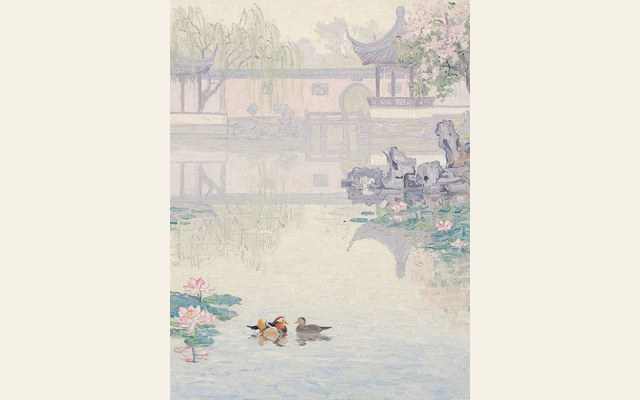
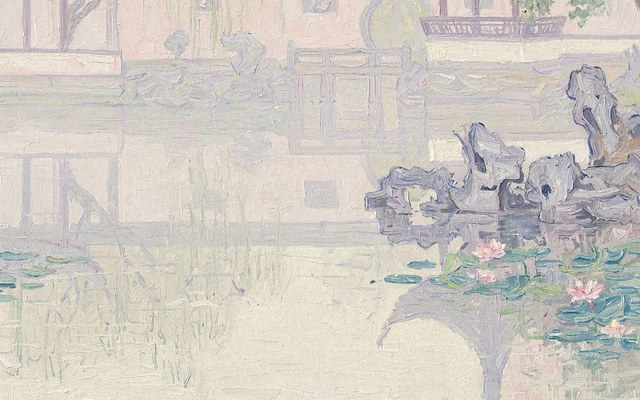
Uniform style thumbnails and full-image preview lightbox

diff --git a/plugin/client.js b/plugin/client.js
@@ -325,6 +325,12 @@ body[data-ds-dark-theme] .iw-root, html[data-ds-dark-theme] .iw-root, .iw-root[d
   border: 1px solid var(--p-hair); border-radius: 0; background: var(--p-paper-2);
   transition: border-color .15s var(--p-ease);
 }
+.iw-root .card-wrap{ position: relative; min-width: 0; }
+.iw-root .card-wrap .card{ width: 100%; }
+.iw-root .card-zoom{ position: absolute; top: 4px; left: 4px; z-index: 2; width: 20px; height: 20px; display: inline-flex; align-items: center; justify-content: center; padding: 0; border: 1px solid var(--p-hair); background: var(--p-paper-2); color: var(--p-ink-3); opacity: .55; transition: opacity .12s, color .12s, border-color .12s; }
+.iw-root .card-wrap:hover .card-zoom,.iw-root .card-wrap:focus-within .card-zoom,.iw-root .card-zoom:focus{ opacity: 1; }
+.iw-root .card-zoom:hover{ color: var(--p-signal); border-color: var(--p-signal); }
+@media (hover:none){.iw-root .card-zoom{opacity:1;}}
 .iw-root .card:hover{ border-color: var(--p-ink-3); }
 .iw-root .card.on{ border-color: var(--p-ink); box-shadow: 0 0 0 1px var(--p-ink); }
 .iw-root .card img{ display: block; width: 100%; aspect-ratio: 16 / 10; object-fit: cover; background: var(--p-sunken); }
@@ -524,6 +530,17 @@ body[data-ds-dark-theme] .iw-root, html[data-ds-dark-theme] .iw-root, .iw-root[d
   opacity: 0; pointer-events: none; transition: opacity .18s, transform .18s; z-index: 80;
 }
 .iw-root .toast.on{ opacity: 1; transform: translateX(-50%) translateY(0); }
+.iw-root .preview-layer{ position: fixed; inset: 0; z-index: 78; display: none; }
+.iw-root .preview-layer.open{ display: block; }
+.iw-root .preview-layer .drawer-backdrop{ position: absolute; inset: 0; background: var(--p-overlay); }
+.iw-root .preview-dialog{ position: absolute; left: 50%; top: 50%; transform: translate(-50%,-50%); width: min(1080px, calc(100vw - 40px)); max-height: calc(100vh - 40px); display: flex; flex-direction: column; background: var(--p-paper-2); border: 1px solid var(--p-hair); box-shadow: 0 30px 90px rgba(0,0,0,.24); }
+.iw-root .preview-head{ display: flex; align-items: center; justify-content: space-between; gap: 12px; padding: 12px 16px; border-bottom: 1px solid var(--p-hair); }
+.iw-root .preview-head h2{ margin: 0; font-family: var(--p-serif); font-size: 18px; font-weight: 600; }
+.iw-root .preview-stage{ flex: 1; min-height: 0; display: flex; align-items: center; justify-content: center; padding: 16px; background: var(--p-sunken); }
+.iw-root .preview-stage img{ display: block; max-width: 100%; max-height: calc(100vh - 190px); object-fit: contain; box-shadow: 0 12px 36px rgba(0,0,0,.16); }
+.iw-root .preview-foot{ display: flex; align-items: center; justify-content: space-between; gap: 12px; padding: 8px 16px; border-top: 1px solid var(--p-hair); font-family: var(--p-mono); font-size: 10px; color: var(--p-ink-3); }
+.iw-root .preview-foot .ghost-btn{ height: 24px; min-width: 28px; font-size: 15px; line-height: 1; }
+.iw-root .preview-foot .ghost-btn:disabled{ opacity: .3; cursor: default; }
 .iw-root .drawer-layer{ position: fixed; inset: 0; z-index: 60; pointer-events: none; }
 .iw-root .drawer-backdrop{ position: absolute; inset: 0; background: var(--p-overlay); opacity: 0; transition: opacity .18s var(--p-ease); }
 .iw-root .drawer{
@@ -1037,6 +1054,22 @@ body[data-ds-dark-theme] .iw-root, html[data-ds-dark-theme] .iw-root, .iw-root[d
       <button class="go" id="saveSettings">保存设置</button>
     </footer>
   </aside>
+</div>
+
+<div class="preview-layer" id="previewLayer" aria-hidden="true" inert>
+  <div class="drawer-backdrop" data-preview-close></div>
+  <figure class="preview-dialog" role="dialog" aria-modal="true" aria-labelledby="previewTitle">
+    <header class="preview-head">
+      <h2 id="previewTitle">示例</h2>
+      <button class="icon-btn" id="previewClose" data-preview-close aria-label="关闭示例"><svg width="16" height="16" viewBox="0 0 16 16" fill="none" stroke="currentColor" stroke-width="1.5" stroke-linecap="round" aria-hidden="true"><path d="M4 4l8 8M12 4l-8 8"/></svg></button>
+    </header>
+    <div class="preview-stage"><img id="previewImg" alt=""></div>
+    <footer class="preview-foot">
+      <button class="ghost-btn" id="previewPrev" aria-label="上一个示例">‹</button>
+      <span id="previewMeta"></span>
+      <button class="ghost-btn" id="previewNext" aria-label="下一个示例">›</button>
+    </footer>
+  </figure>
 </div>
 
 <input type="file" id="fileInput" accept="image/*" hidden>
@@ -1779,12 +1812,15 @@ body[data-ds-dark-theme] .iw-root, html[data-ds-dark-theme] .iw-root, .iw-root[d
       var tag = s.renderer === 'model' ? '云端' : s.renderer === 'html' ? '模板' : s.renderer === 'preset' ? '预设' : '本机';
       var tail = '<span>' + tag + ' · ' + s.eta + '</span>';
       if (s.renderer === 'model') tail += '<span class="price">¥' + cloudUnitPrice().toFixed(2) + '</span>';
-      return '<button class="card' + (on ? ' on' : '') + '" data-id="' + s.id + '" title="' + s.desc + '" aria-pressed="' + (on ? 'true' : 'false') + '">' +
+      return '<div class="card-wrap">' +
+        '<button class="card' + (on ? ' on' : '') + '" data-id="' + s.id + '" title="' + s.desc + '" aria-pressed="' + (on ? 'true' : 'false') + '">' +
         '<img src="' + (state.thumbs[s.id] || '') + '" alt="">' +
         '<span class="tick"><svg width="12" height="12" viewBox="0 0 16 16" fill="none" stroke="currentColor" stroke-width="1.5" stroke-linecap="round" stroke-linejoin="round" aria-hidden="true"><path d="M3.2 8.6l3 3L12.8 5"/></svg></span>' +
         '<span class="cap"><span class="nm">' + s.name + '</span>' +
         '<span class="mt">' + tail + '</span></span>' +
-        '</button>';
+        '</button>' +
+        '<button class="card-zoom" data-zoom="' + s.id + '" aria-label="放大查看 ' + escapeHTML(s.name) + ' 示例" title="放大查看示例"><svg width="12" height="12" viewBox="0 0 16 16" fill="none" stroke="currentColor" stroke-width="1.4" stroke-linecap="round" aria-hidden="true"><path d="M6 2H2v4M10 2h4v4M6 14H2v-4M10 14h4v-4"/></svg></button>' +
+        '</div>';
     }).join('');
     if (activeId) {
       var again = $('.card[data-id="' + activeId + '"]');
@@ -2122,7 +2158,7 @@ body[data-ds-dark-theme] .iw-root, html[data-ds-dark-theme] .iw-root, .iw-root[d
       if (!files.length) throw new Error('empty');
       var manifest = {
         app: 'dsh-image-workbench',
-        version: '0.9.0',
+        version: '0.9.1',
         createdAt: new Date().toISOString(),
         source: { name: state.source.name, w: state.source.w, h: state.source.h },
         frame: state.frame,
@@ -2884,6 +2920,71 @@ body[data-ds-dark-theme] .iw-root, html[data-ds-dark-theme] .iw-root, .iw-root[d
     }).catch(function (err) { toast(err.message || '检查 Key 失败'); });
   }
 
+  /* ————— 示例放大 ————— */
+  var previewReturnFocus = null;
+  var previewIds = [];
+  var previewIndex = 0;
+
+  function previewCardSrc(id) {
+    var s = styleById(id);
+    return (s && (s.preview || state.thumbs[id])) || '';
+  }
+
+  function previewFullSrc(id) {
+    var s = styleById(id);
+    if (s && s.renderer === 'model') return API + '/style-preview/' + id + '-full.jpg';
+    return previewCardSrc(id);
+  }
+
+  function renderStylePreview() {
+    var id = previewIds[previewIndex];
+    var s = styleById(id);
+    if (!s) return;
+    var img = $('#previewImg');
+    img.onerror = function () {
+      var fallback = previewCardSrc(id);
+      if (fallback) { this.onerror = null; this.src = fallback; }
+    };
+    img.src = previewFullSrc(id);
+    img.alt = s.name + ' 示例';
+    $('#previewTitle').textContent = s.name;
+    $('#previewMeta').textContent = (s.renderer === 'model' ? '官方示例' : '当前预览') + ' · ' + (previewIndex + 1) + ' / ' + previewIds.length;
+    $('#previewPrev').disabled = previewIndex <= 0;
+    $('#previewNext').disabled = previewIndex >= previewIds.length - 1;
+  }
+
+  function openStylePreview(id) {
+    var list = filteredStyles();
+    previewIds = list.map(function (s) { return s.id; });
+    previewIndex = previewIds.indexOf(id);
+    if (previewIndex < 0) { previewIds.unshift(id); previewIndex = 0; }
+    var layer = $('#previewLayer');
+    if (!layer) return;
+    previewReturnFocus = document.activeElement;
+    layer.inert = false;
+    layer.classList.add('open');
+    layer.setAttribute('aria-hidden', 'false');
+    renderStylePreview();
+    $('#previewClose').focus();
+  }
+
+  function closeStylePreview() {
+    var layer = $('#previewLayer');
+    if (!layer) return;
+    layer.classList.remove('open');
+    layer.setAttribute('aria-hidden', 'true');
+    layer.inert = true;
+    if (previewReturnFocus && previewReturnFocus.isConnected) previewReturnFocus.focus();
+    previewReturnFocus = null;
+  }
+
+  function moveStylePreview(delta) {
+    var next = previewIndex + delta;
+    if (next < 0 || next >= previewIds.length) return;
+    previewIndex = next;
+    renderStylePreview();
+  }
+
   /* ————— 批量矩阵 ————— */
   function openMatrix() {
     var layer = $('#matrixLayer');
@@ -3020,7 +3121,7 @@ body[data-ds-dark-theme] .iw-root, html[data-ds-dark-theme] .iw-root, .iw-root[d
       method: 'POST', headers: { 'Content-Type': 'application/json' },
       body: JSON.stringify({
         files: files,
-        manifest: { app: 'dsh-image-workbench', kind: 'matrix', version: '0.9.0', createdAt: new Date().toISOString(), sources: matrix.sources.map(function (s) { return s.name; }), items: matrix.results.map(function (r) { return { source: r.sourceName, style: r.styleName, w: r.w, h: r.h }; }) },
+        manifest: { app: 'dsh-image-workbench', kind: 'matrix', version: '0.9.1', createdAt: new Date().toISOString(), sources: matrix.sources.map(function (s) { return s.name; }), items: matrix.results.map(function (r) { return { source: r.sourceName, style: r.styleName, w: r.w, h: r.h }; }) },
       }),
     }).then(function (res) {
       if (!res.ok) throw new Error('export');
@@ -3056,10 +3157,15 @@ body[data-ds-dark-theme] .iw-root, html[data-ds-dark-theme] .iw-root, .iw-root[d
     $('#go').addEventListener('click', function () { generate(false); });
 
     $('#styleGrid').addEventListener('click', function (e) {
+      var zoom = e.target.closest('[data-zoom]');
+      if (zoom) { openStylePreview(zoom.dataset.zoom); return; }
       var el = e.target.closest('.card');
       if (el) toggleStyle(el.dataset.id);
     });
 
+    $$('[data-preview-close]').forEach(function (el) { el.addEventListener('click', closeStylePreview); });
+    $('#previewPrev').addEventListener('click', function () { moveStylePreview(-1); });
+    $('#previewNext').addEventListener('click', function () { moveStylePreview(1); });
     $('#chips').addEventListener('click', function (e) {
       var el = e.target.closest('[data-remove]');
       if (el) removeStyle(el.dataset.remove);
@@ -3334,6 +3440,10 @@ body[data-ds-dark-theme] .iw-root, html[data-ds-dark-theme] .iw-root, .iw-root[d
           if (e.shiftKey && document.activeElement === first) { e.preventDefault(); last.focus(); }
           else if (!e.shiftKey && document.activeElement === last) { e.preventDefault(); first.focus(); }
         }
+      }
+      if (e.key === 'Escape' && $('#previewLayer')?.classList.contains('open')) { closeStylePreview(); return; }
+      if (($('#previewLayer')?.classList.contains('open')) && (e.key === 'ArrowLeft' || e.key === 'ArrowRight')) {
+        e.preventDefault(); moveStylePreview(e.key === 'ArrowLeft' ? -1 : 1); return;
       }
       if (e.key === 'Escape' && setLayer.classList.contains('open')) closeSettings();
       if (e.key === 'Escape' && $('#matrixLayer')?.classList.contains('open')) closeMatrix();

diff --git a/plugin/index.js b/plugin/index.js
@@ -435,11 +435,14 @@ export default {
         return serveSample(req, res)
       }
       if (method === 'GET' && seg.length === 2 && seg[0] === 'style-preview') {
-        const id = seg[1].replace(/\.jpg$/i, '')
+        let id = seg[1].replace(/\.jpg$/i, '')
+        const full = id.endsWith('-full')
+        if (full) id = id.slice(0, -5)
         if (!/^[a-z0-9-]{1,63}$/.test(id) || !CLOUD_STYLES[id]) {
           return json(res, 404, { error: '风格预览不存在' })
         }
-        return serveStored(res, join(STYLE_PREVIEW_DIR, id + '.jpg'), 'image/jpeg')
+        const file = full ? join(STYLE_PREVIEW_DIR, 'full', id + '.jpg') : join(STYLE_PREVIEW_DIR, id + '.jpg')
+        return serveStored(res, file, 'image/jpeg')
       }
       if (method === 'POST' && path === 'settings') {
         const body = await readBody(req)

diff --git a/plugin/docs/CLOUD-STYLES.md b/plugin/docs/CLOUD-STYLES.md
@@ -1,6 +1,6 @@
 # 云端 H3 风格 · 官方示例归纳
 
-这 21 个云端风格来自 MiniMax-H3-Image 官方仓库的 showcase 与提示词指南，不是第三方风格名。风格库缩略图已换成官方示例图（h3-illus / h3-silver 使用内置 sample 的实际 H3 输出），见 `assets/style-previews/`。官方示例是完整创作 prompt；工作台把它们**归纳成图生图改写指令**：
+这 21 个云端风格来自 MiniMax-H3-Image 官方仓库的 showcase 与提示词指南，不是第三方风格名。风格库缩略图已换成官方示例图（h3-illus / h3-silver 使用内置 sample 的实际 H3 输出），见 `assets/style-previews/`；卡片图统一 640×400，灯箱用 `<id>-full.jpg` 原始尺寸。官方示例是完整创作 prompt；工作台把它们**归纳成图生图改写指令**：
 
 1. 先声明“图 1 是唯一参考图 / 构图来源”；
 2. 保留主体身份、姿态、构图、文字与现场关系；

diff --git a/plugin/assets/style-previews/README.md b/plugin/assets/style-previews/README.md
@@ -5,5 +5,5 @@ These are static 16:10 thumbnails used by the style library cards.
 - The 19 official style thumbnails are cropped/contained from MiniMax-H3-Image's official showcase assets:
   https://github.com/MiniMax-AI/MiniMax-H3-Image/tree/main/assets/showcase
 - `h3-illus` and `h3-silver` are actual H3 outputs of the workbench's built-in `assets/sample.jpg`.
-- Files are local, 640x400 JPEGs; the app serves them at `/image-workbench/style-preview/<id>.jpg`.
+- Card thumbnails are local 640×400 JPEGs served at `/image-workbench/style-preview/<id>.jpg`; full images (max 1600 long edge) live in `full/` and are served at `/image-workbench/style-preview/<id>-full.jpg` for the lightbox.
 - The generated images on a user's own photo are still produced live; these are only style examples.

diff --git a/NEXT.md b/NEXT.md
@@ -1,6 +1,6 @@
 # 图像风格工作台 · 剩余待办
 
-> 2026-11-14 · 当前 0.9.0：P1–P5 已实现；P3/P4 live 已验证；真实 DSH 页面（侧栏/历史/设置/单张下载/ZIP）已实测。源码 `~/Code/dsh-image-workbench`。
+> 2026-11-14 · 当前 0.9.1：P1–P5 已实现；P3/P4 live 已验证；真实 DSH 页面（侧栏/历史/设置/单张下载/ZIP）已实测。源码 `~/Code/dsh-image-workbench`。
 
 ## 已完成
 
